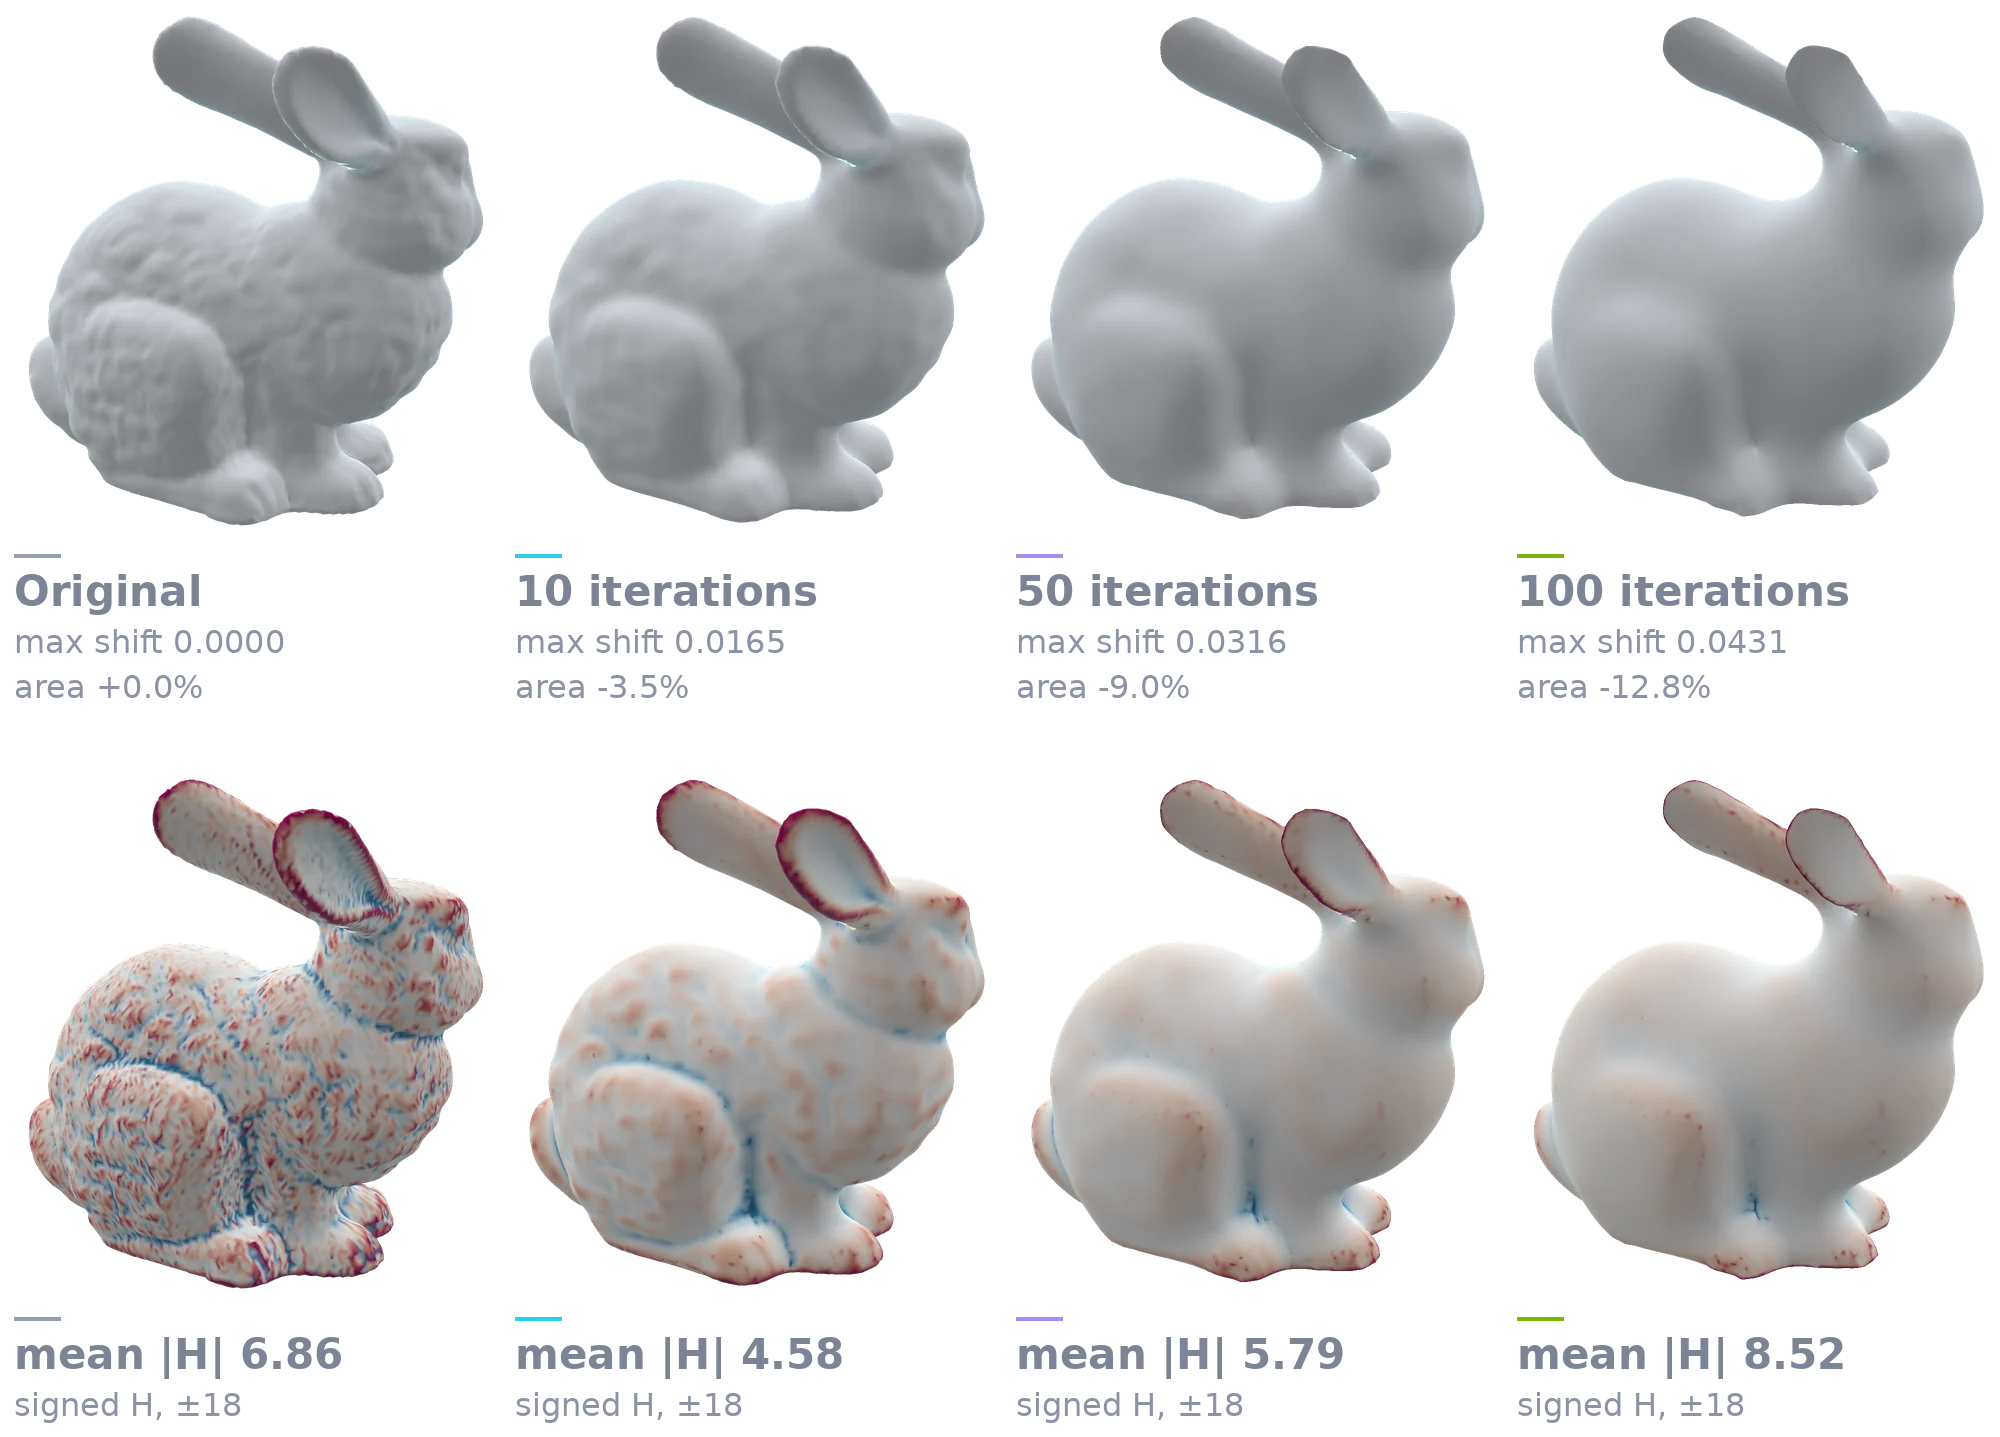
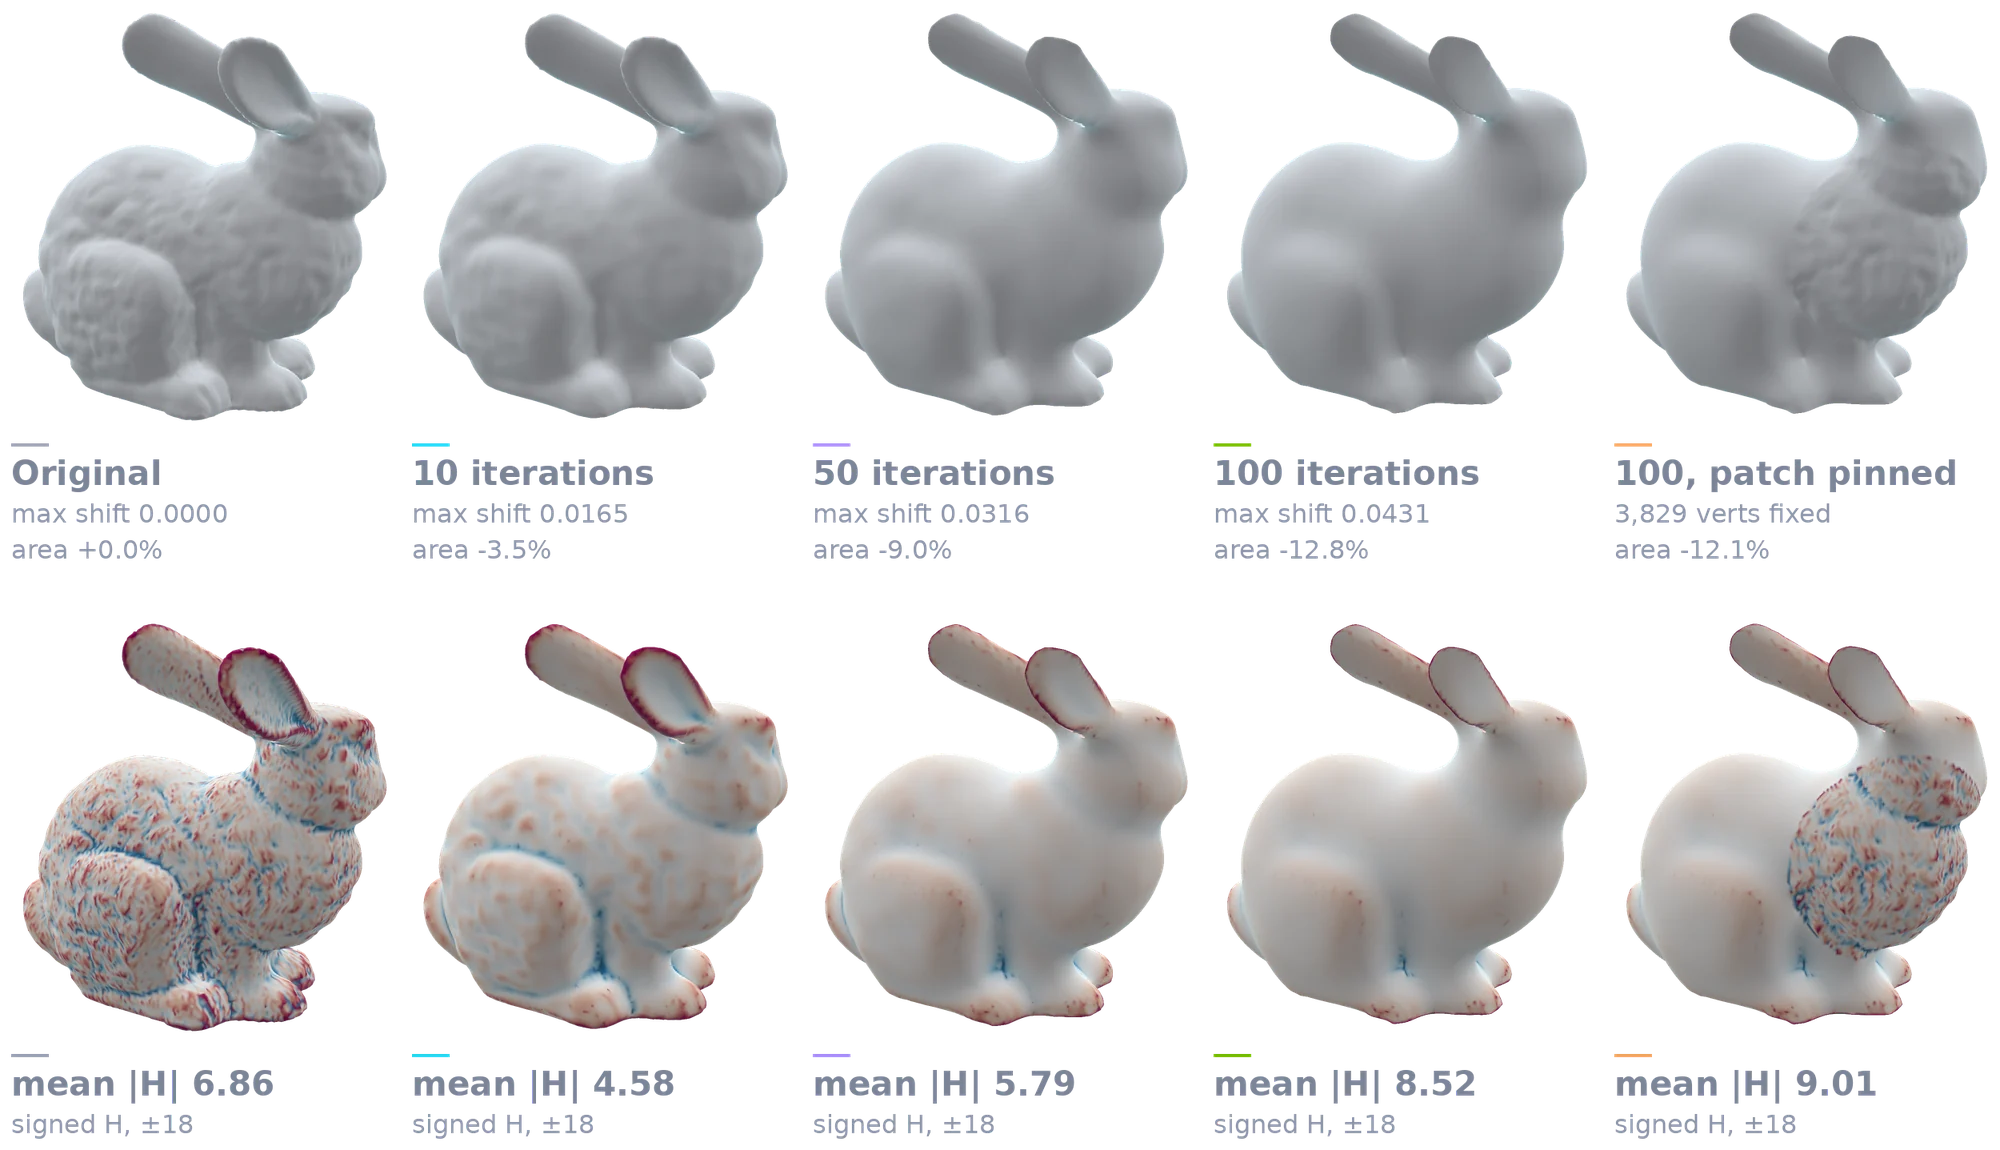
feat(docs): show what a pinned patch keeps in the smoothing showcase
smooth() gained a `locked` mask, so the figure gains a fifth panel: the same
100 iterations, with a patch on the bunny's haunch held fixed.

The measurement is what carries it. Mean |H| inside that patch is 1.93 when
the region is free and 6.68 when it is pinned, against 7.0 on the original --
the pinned patch keeps its curvature while everything around it diffuses.

The patch centre takes a height penalty rather than simply being the most
camera-facing vertex. That alone lands on an ear tip, where smoothing
degenerates a thin feature instead of erasing surface detail, which is not
what this panel is about.

Claude-Session: https://claude.ai/code/session_01Feb3yoQjHYvNcwnLccMKf4

diff --git a/docs/_figures/make_figures.py b/docs/_figures/make_figures.py
@@ -1804,23 +1804,43 @@ SMOOTH_DAMPING = 0.5
 #: Cotangent weights: they follow the surface geometry and keep triangle shapes,
 #: where uniform weights also relax the triangulation tangentially.
 SMOOTH_MODE = 1
+#: Radius of the region held fixed in the last panel, in normalised mesh units.
+SMOOTH_PIN_RADIUS = 0.45
 
 
 def fig_smoothing(rnd):
-    """Laplacian smoothing at three iteration counts, and the curvature it removes."""
+    """Laplacian smoothing at three iteration counts, and what a pinned patch keeps."""
     from conquer3d.data_structure import TriangleMesh
 
     tmesh = load_mesh(_asset("StanfordBunny"))
     base_v = tmesh.vertices.clone()
     faces = tmesh.triangles.int().clone()
 
-    # smooth() rewrites the vertex positions in place, so each level starts from
-    # its own copy of the original rather than from the previous level.
-    levels = [(0, tmesh)]
-    for steps in SMOOTH_STEPS:
+    # A patch on the camera-facing flank, held fixed in the final panel. `locked` is
+    # True where a vertex does not move, so the patch itself is the True region.
+    # The height penalty keeps the centre on the haunch: the most camera-facing
+    # point alone lands on an ear tip, where smoothing degenerates a thin feature
+    # rather than erasing surface detail, which is what this panel is about.
+    a, e = math.radians(AZ_SMOOTH), math.radians(12.0)
+    eye = torch.tensor([math.cos(e) * math.sin(a), math.sin(e), math.cos(e) * math.cos(a)],
+                       device=DEV)
+    centroid = base_v.mean(0)
+    score = ((base_v - centroid) @ eye) - 3.0 * (base_v[:, 1] - centroid[1]).abs()
+    centre = base_v[score.argmax()]
+    pinned = ((base_v - centre).norm(dim=-1) < SMOOTH_PIN_RADIUS).contiguous()
+
+    def run(steps, locked=None):
+        """One level, always from the original: smooth() rewrites positions in place."""
         mesh = TriangleMesh(base_v.clone().contiguous(), faces.clone().contiguous())
-        mesh.smooth(iterations=steps, damping=SMOOTH_DAMPING, mode=SMOOTH_MODE)
-        levels.append((steps, mesh))
+        if steps:
+            mesh.smooth(iterations=steps, damping=SMOOTH_DAMPING, mode=SMOOTH_MODE,
+                        locked=locked)
+        return mesh
+
+    last = SMOOTH_STEPS[-1]
+    levels = [("Original", run(0), False)]
+    levels += [(f"{n} iterations", run(n), False) for n in SMOOTH_STEPS]
+    levels.append((f"{last}, patch pinned", run(last, pinned), True))
 
     # One colour range for every curvature panel, taken from the unsmoothed mesh.
     # Per-panel percentiles would renormalise each panel to its own extremes, and
@@ -1841,7 +1861,7 @@ def fig_smoothing(rnd):
     area0 = surface_area(base_v, faces)
     shot = dict(flat=False, azimuth=AZ_SMOOTH, elevation=12, rim_strength=0.16)
     surfaces, fields, top_labels, top_subs, bot_labels = [], [], [], [], []
-    for steps, mesh in levels:
+    for label, mesh, is_pinned in levels:
         verts = mesh.vertices
         surfaces.append(render_mesh(rnd, verts, faces, base=GT_TINT, **shot))
         curvature = mesh.get_mean_curvature(0)
@@ -1854,19 +1874,26 @@ def fig_smoothing(rnd):
         shift = float((verts - base_v).norm(dim=-1).max())
         mad = float(curvature.abs().mean())
         area = surface_area(verts, faces)
-        top_labels.append("Original" if steps == 0 else f"{steps} iterations")
-        top_subs.append(f"max shift {shift:.4f}\narea {100 * (area / area0 - 1):+.1f}%")
+        in_patch = float(curvature[pinned].abs().mean())
+        top_labels.append(label)
+        if is_pinned:
+            # The pinned vertices are the claim, so the label counts them and the
+            # curvature row is what shows the detail they kept.
+            top_subs.append(f"{int(pinned.sum()):,} verts fixed\narea {100 * (area / area0 - 1):+.1f}%")
+        else:
+            top_subs.append(f"max shift {shift:.4f}\narea {100 * (area / area0 - 1):+.1f}%")
         bot_labels.append(f"mean |H| {mad:.2f}")
-        print(f"    {top_labels[-1]:14} mean |H| {mad:7.3f}   max vertex shift {shift:.5f}   "
-              f"area {100 * (area / area0 - 1):+.2f}%")
+        print(f"    {label:22} mean |H| {mad:7.3f}   max shift {shift:.5f}   "
+              f"area {100 * (area / area0 - 1):+.2f}%   |H| in patch {in_patch:7.3f}")
 
     # Trimmed as one set, so both rows keep the same crop and the columns line up.
     trimmed = compose.trim(surfaces + fields)
     half = len(surfaces)
-    accents = [(150, 158, 176), (34, 211, 238), (167, 139, 250), (118, 185, 0)]
+    accents = [(150, 158, 176), (34, 211, 238), (167, 139, 250), (118, 185, 0),
+               (244, 162, 97)]
     top = compose.grid(trimmed[:half], top_labels, sublabels=top_subs, accents=accents)
     bot = compose.grid(trimmed[half:], bot_labels,
-                       sublabels=[f"signed H, ±{lim:.0f}"] * half, accents=accents)
+                       sublabels=[f"signed H, \u00b1{lim:.0f}"] * half, accents=accents)
     compose.save(compose.stack([top, bot], pad=16), OUT / "fig-smoothing.png")
 
 

diff --git a/docs/_gen/snippets.py b/docs/_gen/snippets.py
@@ -191,7 +191,15 @@ for iterations in (10, 50, 100):
                  mode=1)          # 1 = cotangent weights
 
     H = level.get_mean_curvature(0)
+
+# locked holds vertices fixed, so detail inside the patch
+# survives while everything around it diffuses. It is
+# unioned with the boundary pin, never replaces it.
+patch = (base_v - centre).norm(dim=-1) < 0.45
+level.smooth(iterations=100, damping=0.5, mode=1,
+             locked=patch.contiguous())
 """,
+
 
     "fig-quality": """# The maps the metrics are computed from.
 mesh.compute_triangle_areas()

diff --git a/docs/_gen/content.py b/docs/_gen/content.py
@@ -214,7 +214,9 @@ FIGURES = [
     (
         "fig-smoothing", "Laplacian smoothing", "Smoothing",
         "The same mesh smoothed for 10, 50 and 100 iterations, with the mean "
-        "curvature of each result on one shared scale beneath it.",
+        "curvature of each result on one shared scale beneath it. The last panel "
+        "repeats 100 iterations with a patch held fixed, which keeps the detail "
+        "the others lose.",
         False,
     ),
     (
